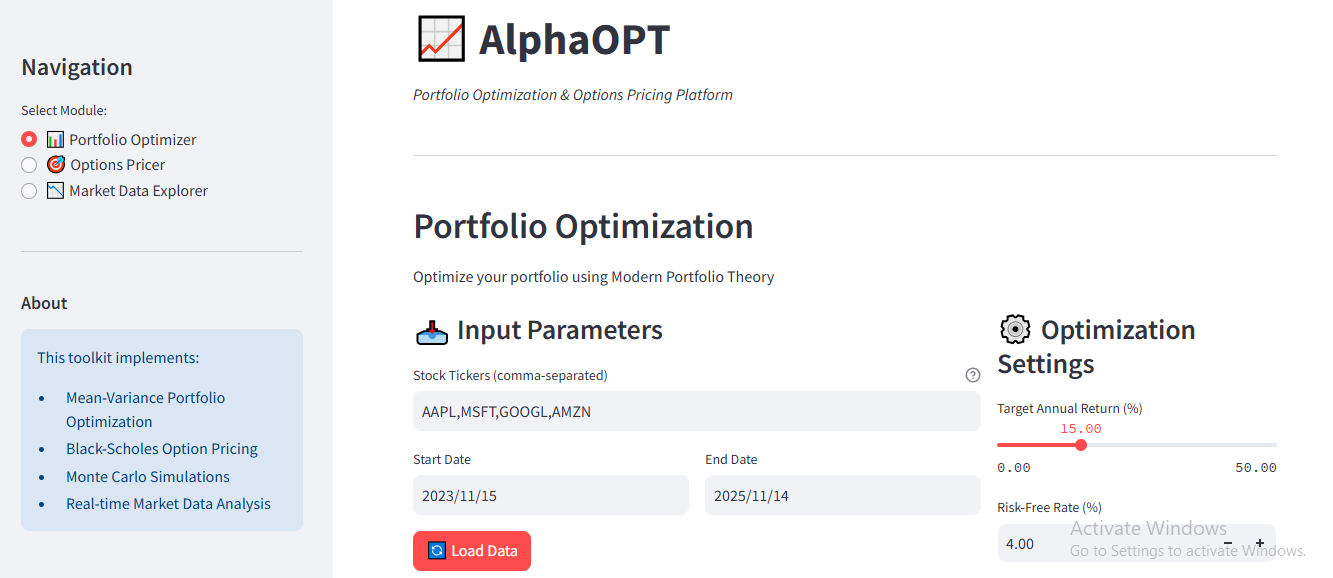
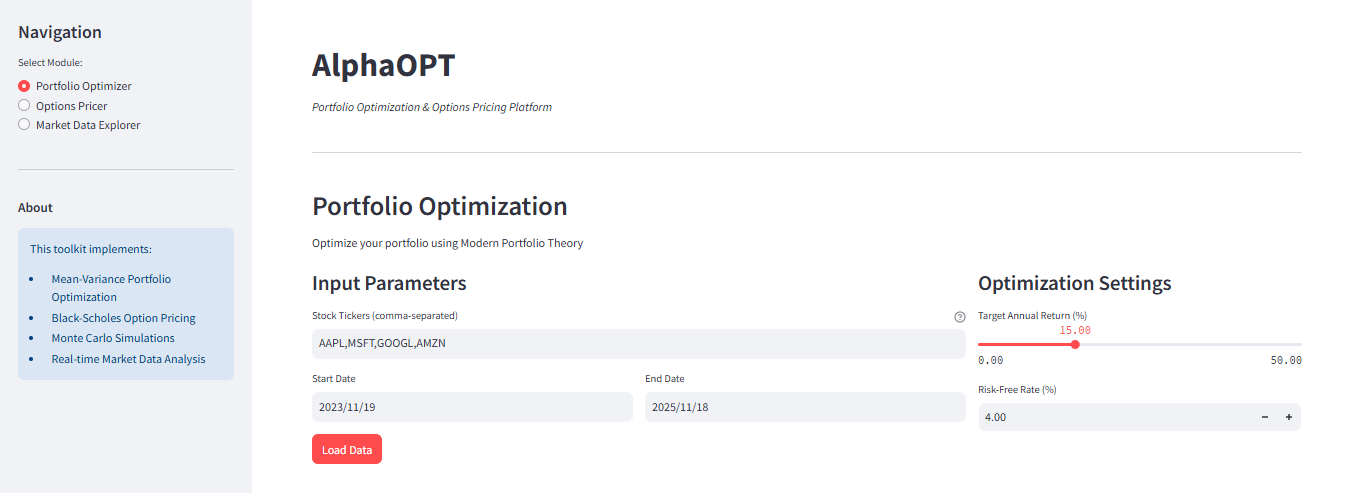
Update screenshot

diff --git a/app.py b/app.py
@@ -50,7 +50,7 @@ if 'returns' not in st.session_state:
     st.session_state.returns = None
 
 # Title
-st.title("📈 AlphaOPT")
+st.title(" AlphaOPT")
 st.markdown("*Portfolio Optimization & Options Pricing Platform*")
 st.markdown("---")
 
@@ -58,7 +58,7 @@ st.markdown("---")
 st.sidebar.title("Navigation")
 page = st.sidebar.radio(
     "Select Module:",
-    ["📊 Portfolio Optimizer", "🎯 Options Pricer", "📉 Market Data Explorer"]
+    [" Portfolio Optimizer", " Options Pricer", " Market Data Explorer"]
 )
 
 st.sidebar.markdown("---")
@@ -74,14 +74,14 @@ st.sidebar.info(
 # ============================================================================
 # PAGE 1: PORTFOLIO OPTIMIZER
 # ============================================================================
-if page == "📊 Portfolio Optimizer":
+if page == " Portfolio Optimizer":
     st.header("Portfolio Optimization")
     st.markdown("Optimize your portfolio using Modern Portfolio Theory")
     
     col1, col2 = st.columns([2, 1])
     
     with col1:
-        st.subheader("📥 Input Parameters")
+        st.subheader(" Input Parameters")
         
         # Ticker input
         default_tickers = "AAPL,MSFT,GOOGL,AMZN"
@@ -108,7 +108,7 @@ if page == "📊 Portfolio Optimizer":
             )
         
         # Load data button
-        if st.button("🔄 Load Data", type="primary"):
+        if st.button(" Load Data", type="primary"):
             with st.spinner("Fetching market data..."):
                 try:
                     loader = MarketDataLoader()
@@ -122,12 +122,12 @@ if page == "📊 Portfolio Optimizer":
                     st.session_state.prices = prices
                     st.session_state.returns = returns
                     st.session_state.data_loaded = True
-                    st.success(f"✅ Loaded {len(prices)} days of data for {len(tickers)} stocks")
+                    st.success(f" Loaded {len(prices)} days of data for {len(tickers)} stocks")
                 except Exception as e:
-                    st.error(f"❌ Error loading data: {e}")
+                    st.error(f" Error loading data: {e}")
     
     with col2:
-        st.subheader("⚙ Optimization Settings")
+        st.subheader(" Optimization Settings")
         target_return = st.slider(
             "Target Annual Return (%)",
             min_value=0.0,
@@ -149,7 +149,7 @@ if page == "📊 Portfolio Optimizer":
         st.markdown("---")
         
         # Display price chart
-        st.subheader("📈 Price History")
+        st.subheader(" Price History")
         fig = go.Figure()
         for col in st.session_state.prices.columns:
             # Normalize to 100 for comparison
@@ -174,7 +174,7 @@ if page == "📊 Portfolio Optimizer":
         col1, col2, col3 = st.columns([1, 1, 1])
         
         with col2:
-            if st.button("🎯 Optimize Portfolio", type="primary", use_container_width=True):
+            if st.button(" Optimize Portfolio", type="primary", use_container_width=True):
                 with st.spinner("Running optimization..."):
                     try:
                         optimizer = PortfolioOptimizer(st.session_state.returns)
@@ -184,10 +184,10 @@ if page == "📊 Portfolio Optimizer":
                         )
                         
                         # Display results
-                        st.success("✅ Optimization Complete!")
+                        st.success(" Optimization Complete!")
                         
                         # Metrics
-                        st.markdown("### 📊 Portfolio Metrics")
+                        st.markdown("###  Portfolio Metrics")
                         metric_col1, metric_col2, metric_col3 = st.columns(3)
                         
                         with metric_col1:
@@ -240,7 +240,7 @@ if page == "📊 Portfolio Optimizer":
                             st.caption("*Based on $10,000 portfolio")
                         
                         # Efficient Frontier
-                        st.markdown("### 📉 Efficient Frontier")
+                        st.markdown("###  Efficient Frontier")
                         with st.spinner("Generating efficient frontier..."):
                             frontier = optimizer.efficient_frontier(n_points=50)
                             
@@ -275,7 +275,7 @@ if page == "📊 Portfolio Optimizer":
                             st.plotly_chart(fig_frontier, use_container_width=True)
                         
                     except Exception as e:
-                        st.error(f"❌ Optimization failed: {e}")
+                        st.error(f" Optimization failed: {e}")
                         import traceback
                         with st.expander("Error Details"):
                             st.code(traceback.format_exc())
@@ -283,14 +283,14 @@ if page == "📊 Portfolio Optimizer":
 # ============================================================================
 # PAGE 2: OPTIONS PRICER
 # ============================================================================
-elif page == "🎯 Options Pricer":
+elif page == " Options Pricer":
     st.header("Options Pricing & Greeks")
     st.markdown("Price options using Black-Scholes Model and Monte Carlo Simulation")
     
     col1, col2 = st.columns([1, 1])
     
     with col1:
-        st.subheader("📊 Option Parameters")
+        st.subheader(" Option Parameters")
         
         # Stock ticker for reference
         ticker = st.text_input("Stock Ticker (optional)", value="AAPL", help="For reference only")
@@ -340,7 +340,7 @@ elif page == "🎯 Options Pricer":
         option_type = st.radio("Option Type", ["Call", "Put"])
     
     with col2:
-        st.subheader("⚙ Pricing Method")
+        st.subheader(" Pricing Method")
         method = st.radio(
             "Select Method:",
             ["Black-Scholes (Analytical)", "Monte Carlo (Simulation)"]
@@ -353,7 +353,7 @@ elif page == "🎯 Options Pricer":
                 value=100000
             )
         
-        if st.button("💰 Price Option", type="primary", use_container_width=True):
+        if st.button(" Price Option", type="primary", use_container_width=True):
             with st.spinner("Calculating..."):
                 try:
                     if method == "Black-Scholes (Analytical)":
@@ -366,10 +366,10 @@ elif page == "🎯 Options Pricer":
                             price = bs.put_price()
                             greeks = bs.all_greeks('put')
                         
-                        st.success("✅ Calculation Complete!")
+                        st.success(" Calculation Complete!")
                         
                         # Display price
-                        st.markdown("### 💵 Option Price")
+                        st.markdown("###  Option Price")
                         st.metric(
                             f"{option_type} Option Price",
                             f"${price:.4f}",
@@ -377,7 +377,7 @@ elif page == "🎯 Options Pricer":
                         )
                         
                         # Display Greeks
-                        st.markdown("### 📈 The Greeks")
+                        st.markdown("###  The Greeks")
                         st.markdown("*Sensitivity measures for risk management*")
                         
                         greek_col1, greek_col2, greek_col3 = st.columns(3)
@@ -414,7 +414,7 @@ elif page == "🎯 Options Pricer":
                             )
                         
                         # Greeks explanation
-                        with st.expander("📚 Understanding the Greeks"):
+                        with st.expander(" Understanding the Greeks"):
                             st.markdown("""
                             **Delta**: How much the option price changes when stock price moves $1
                             - Call: 0 to 1 | Put: -1 to 0
@@ -444,10 +444,10 @@ elif page == "🎯 Options Pricer":
                         else:
                             result = mc.price_european_put()
                         
-                        st.success("✅ Simulation Complete!")
+                        st.success(" Simulation Complete!")
                         
                         # Display results
-                        st.markdown("### 💵 Option Price (Monte Carlo)")
+                        st.markdown("###  Option Price (Monte Carlo)")
                         
                         price_col1, price_col2 = st.columns(2)
                         
@@ -464,13 +464,13 @@ elif page == "🎯 Options Pricer":
                                 help="Range of uncertainty in the estimate"
                             )
                         
-                        st.info(f"📊 Based on {n_simulations:,} simulated price paths")
+                        st.info(f" Based on {n_simulations:,} simulated price paths")
                         
                         # Compare with Black-Scholes
                         bs = BlackScholesModel(S, K, T, r, sigma)
                         bs_price = bs.call_price() if option_type == "Call" else bs.put_price()
                         
-                        st.markdown("### 📊 Comparison with Black-Scholes")
+                        st.markdown("###  Comparison with Black-Scholes")
                         comp_col1, comp_col2, comp_col3 = st.columns(3)
                         
                         with comp_col1:
@@ -482,7 +482,7 @@ elif page == "🎯 Options Pricer":
                             st.metric("Difference", f"${diff:.4f}")
                 
                 except Exception as e:
-                    st.error(f"❌ Calculation failed: {e}")
+                    st.error(f" Calculation failed: {e}")
                     import traceback
                     with st.expander("Error Details"):
                         st.code(traceback.format_exc())
@@ -509,7 +509,7 @@ else:  # Market Data Explorer
             value=datetime.now()
         )
     
-    if st.button("📥 Load Data", type="primary"):
+    if st.button(" Load Data", type="primary"):
         with st.spinner(f"Fetching data for {ticker}..."):
             try:
                 loader = MarketDataLoader()
@@ -520,10 +520,10 @@ else:  # Market Data Explorer
                 )
                 returns = loader.calculate_returns(prices)
                 
-                st.success(f"✅ Loaded {len(prices)} days of data")
+                st.success(f" Loaded {len(prices)} days of data")
                 
                 # Price chart
-                st.markdown("### 📈 Price History")
+                st.markdown("###  Price History")
                 fig = go.Figure()
                 fig.add_trace(go.Scatter(
                     x=prices.index,
@@ -542,7 +542,7 @@ else:  # Market Data Explorer
                 st.plotly_chart(fig, use_container_width=True)
                 
                 # Statistics
-                st.markdown("### 📊 Statistics")
+                st.markdown("###  Statistics")
                 
                 stat_col1, stat_col2, stat_col3, stat_col4 = st.columns(4)
                 
@@ -560,7 +560,7 @@ else:  # Market Data Explorer
                     st.metric("High", f"${max_price:.2f}")
                 
                 # Returns distribution
-                st.markdown("### 📉 Returns Distribution")
+                st.markdown("###  Returns Distribution")
                 fig_hist = px.histogram(
                     returns,
                     x=ticker,
@@ -575,7 +575,7 @@ else:  # Market Data Explorer
                 st.plotly_chart(fig_hist, use_container_width=True)
                 
             except Exception as e:
-                st.error(f"❌ Error: {e}")
+                st.error(f" Error: {e}")
 
 # Footer
 st.markdown("---")
